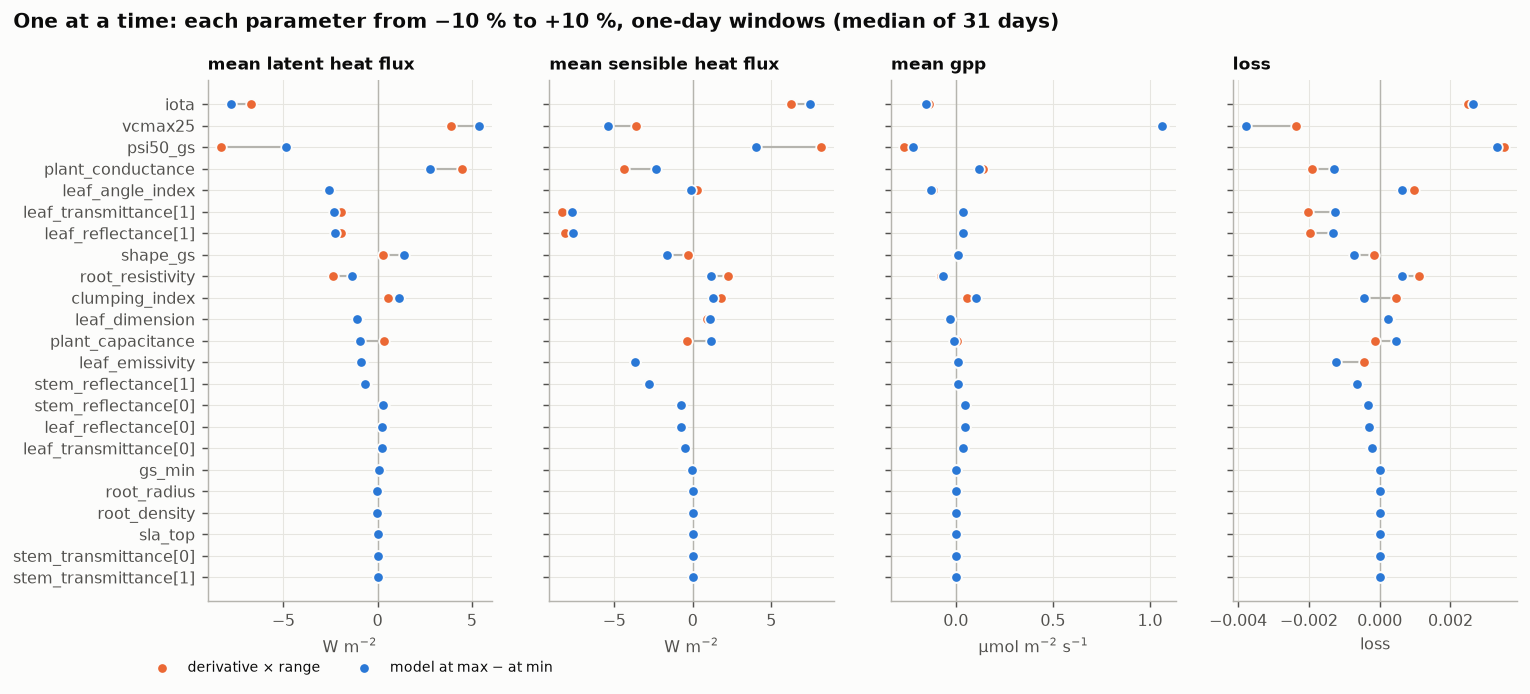
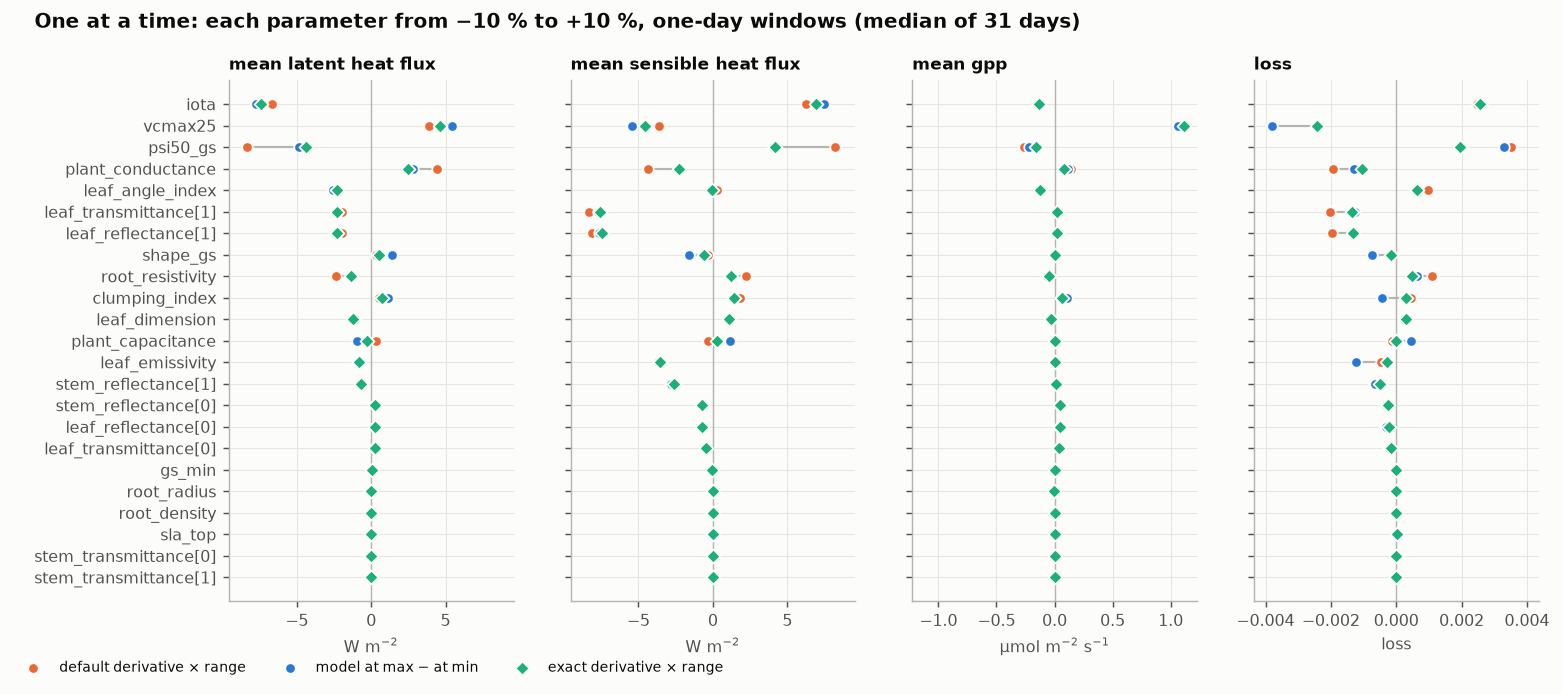
CHATS gradient experiments: the exact water-stress derivative added to the one-at-a-time figures (O82)

diff --git a/experiments/chats_gradients/plots.py b/experiments/chats_gradients/plots.py
@@ -250,8 +250,10 @@ if want("baseline") and (RESULTS / "table.csv").exists():
         save(fig, "stabilized_vs_exact_day08.png")
 
     # the one-at-a-time experiment
-    for exp, title, name in [("baseline", "one-day windows (median of 31 days)", "oat_1day.png"),
-                             ("month", "the 31 days of May", "oat_month.png")]:  # fmt: skip
+    for exp, exp_x, title, name in [
+        ("baseline", "exact_water_stress", "one-day windows (median of 31 days)", "oat_1day.png"),
+        ("month", "month_exact", "the 31 days of May", "oat_month.png"),
+    ]:
         d = t[t.experiment == exp].drop_duplicates(["first_chunk", "input", "output"], keep="last")
         d = d[~d.input.isin(zero)]
         if d.empty:
@@ -261,14 +263,37 @@ if want("baseline") and (RESULTS / "table.csv").exists():
         fig, axes = plt.subplots(1, 4, figsize=(13, 5.2), sharey=True)
         m = d.groupby(["input", "output"])[["actual", "linear"]].median().reset_index()
         order_p = m[m.output == outs[0]].set_index("input").actual.abs().sort_values().index
+        # the same with the exact water-stress derivative (a setting; forward values the same)
+        dx = t[t.experiment == exp_x].drop_duplicates(["first_chunk", "input", "output"], keep="last")  # fmt: skip
+        dx = dx.assign(exact=dx.ad_forward * (dx.x_max - dx.x_min))
+        mx = dx.groupby(["input", "output"]).exact.median().reset_index()
+        if len(dx):
+            say(f"one at a time, {exp}: exact derivative from {dx.first_chunk.nunique()} window(s)")
         for ax, q in zip(axes, outs):
             mm = m[m.output == q].set_index("input").loc[order_p]
             yy = np.arange(len(mm))
             ax.hlines(yy, mm.actual, mm.linear, color=GREY, lw=1.2)
-            ax.scatter(mm.linear, yy, s=34, color=C[1], label="derivative × range", zorder=3,
+            ax.scatter(mm.linear, yy, s=34, color=C[1], label="default derivative × range", zorder=3,
                        edgecolors=SURFACE, linewidths=1)  # fmt: skip
             ax.scatter(mm.actual, yy, s=34, color=C[0], label="model at max − at min", zorder=3,
                        edgecolors=SURFACE, linewidths=1)  # fmt: skip
+            lim = 1.15 * max(mm.actual.abs().max(), mm.linear.abs().max())
+            if len(mx):
+                ex_ = mx[mx.output == q].set_index("input").exact.reindex(order_p)
+                inside = ex_.abs() <= lim
+                ax.scatter(ex_[inside], yy[inside.values], s=30, color=C[2], marker="D", zorder=4,
+                           label="exact derivative × range", edgecolors=SURFACE, linewidths=1)  # fmt: skip
+                for y_, v in zip(yy[~inside.values], ex_[~inside]):  # off the axis: its value
+                    if np.isfinite(v):
+                        ax.annotate(f"{v:.3g}", (np.sign(v) * lim, y_), color=C[2], fontsize=7,
+                                    ha="right" if v > 0 else "left", va="center",
+                                    xytext=(-3 if v > 0 else 3, 0), textcoords="offset points",
+                                    arrowprops={"arrowstyle": "-|>", "color": C[2], "lw": 0.8})  # fmt: skip
+                relx = (ex_ - mm.actual).abs() / mm.actual.abs().max()
+                say(f"   exact derivative × range, {q}: off by at most {relx.max():.1%} of the",
+                    f"largest effect ({relx.idxmax()}); median {relx.median():.2%};",
+                    f"default: median {((mm.linear - mm.actual).abs() / mm.actual.abs().max()).median():.2%}")  # fmt: skip
+            ax.set_xlim(-lim, lim)
             ax.axvline(0, color=GREY, lw=0.8)
             unit = UNITS.get(q.replace("mean:", ""), "")
             ax.set(title=q.replace("mean:", "mean ").replace("_", " "), xlabel=unit or "loss")
@@ -278,7 +303,7 @@ if want("baseline") and (RESULTS / "table.csv").exists():
                 say(f"one at a time, {exp}, {q}: largest effect {mm.actual.abs().max():.3g}",
                     f"({mm.actual.abs().idxmax()}); derivative × range off by at most",
                     f"{rel.max():.1%} of that ({rel.idxmax()})")  # fmt: skip
-        axes[0].legend(loc="upper center", bbox_to_anchor=(0.5, -0.09), ncol=2, fontsize=8)
+        axes[0].legend(loc="upper center", bbox_to_anchor=(0.5, -0.09), ncol=3, fontsize=8)
         fig.suptitle(f"One at a time: each parameter from −10 % to +10 %, {title}", x=0.01,
                      ha="left", fontweight="bold")  # fmt: skip
         save(fig, name)

diff --git a/experiments/chats_gradients/README.md b/experiments/chats_gradients/README.md
@@ -161,6 +161,14 @@ the 31-day Hessian 3 hours.
   s-1 in GPP (Vcmax). Derivative × range predicts the difference between the maximum and
   the minimum within 5 % for GPP; for the heat fluxes it is off by up to 24 % (month) for
   ψ50 (a curved response and the stabilized derivative together).
+  The green diamonds are the same with `water_stress_derivative: exact` (every day and the
+  month run again with that setting). Over one day the exact derivative is the better
+  predictor (median of 31 days: off by 0.4 % of the largest effect in latent heat against
+  0.9 % for the default; ψ50 and plant conductance sit on the model's difference). Over
+  the month it is useless: thousands of W m-2 for an effect of 8, wrong signs (the numbers
+  at the arrows), the growth without bound that decision 124 describes. There its forward
+  and reverse mode also differ by a constant factor of 1.44 for every parameter (not
+  diagnosed; one exploding direction whose size depends on round-off would do that).
 
 ### Step 3. Threshold sweeps
 
